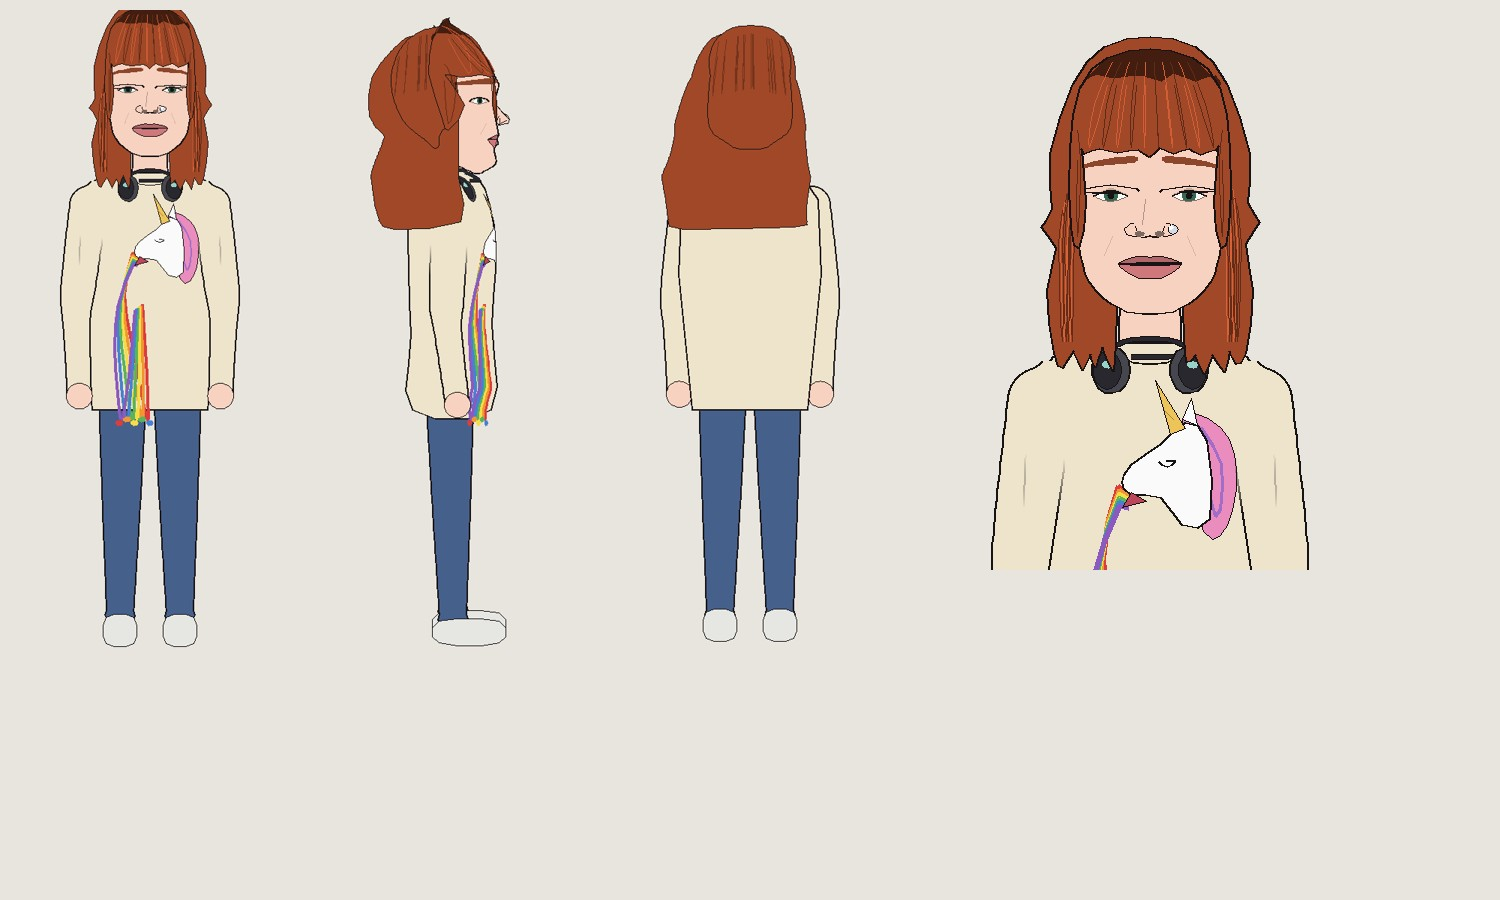
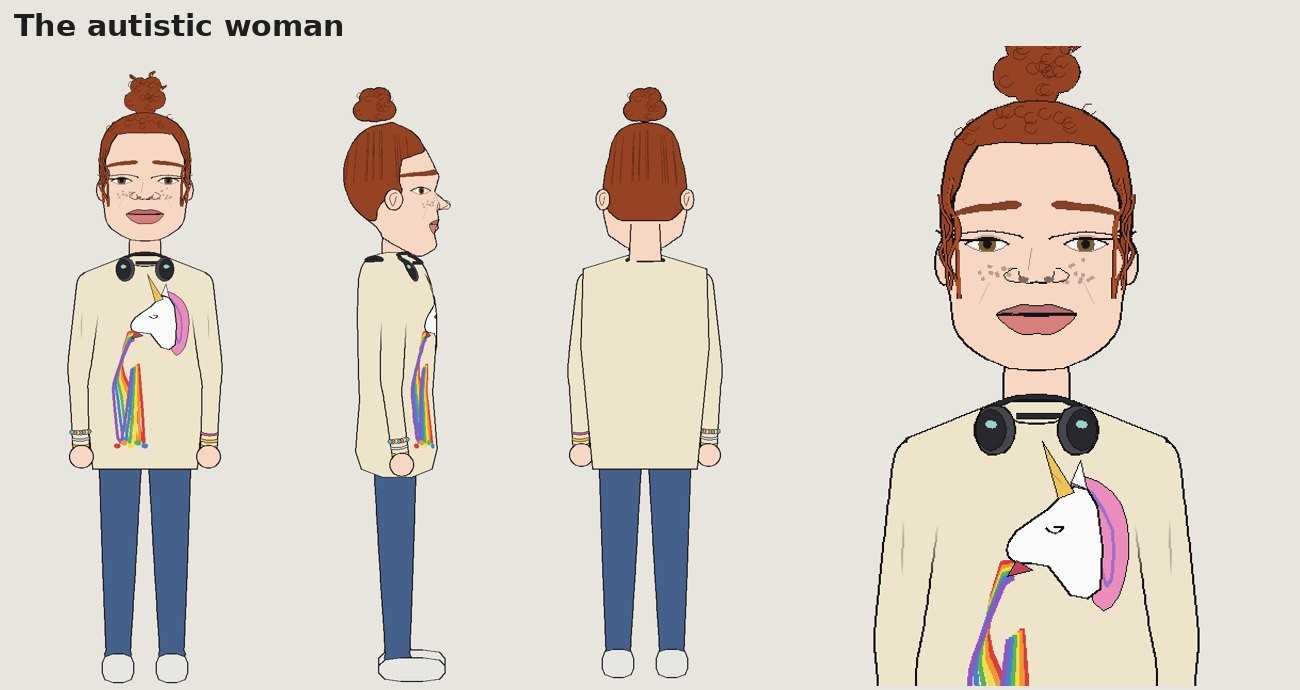
Grand Theft Autism chat 9: Sam's six cast notes and the likeness fixes, critique hunts 1 and 2, handover
Claude-Session: https://claude.ai/code/session_01J1JB7X4DqA8UyL6TXWdGbM

diff --git a/source/people_parts.py b/source/people_parts.py
@@ -520,7 +520,7 @@ def messy_front(p, f, L, fc, hc, hl):
         x, y = f(u, v)
         p.line(oval(x, y, 7, 6, 10, 0.3, math.pi * 1.6), dk(hc, 0.66), 1.3)
     for sgn in (-1, 1):                                       # ringlets at the temples: a wavy ribbon each side
-        for k, (x0, y0, ln) in enumerate(((e - 0.07, hl + 0.06, 0.62), (e - 0.015, 0.0, 0.5))):
+        for k, (x0, y0, ln) in enumerate(((e - 0.035, 0.0, 0.58), (e + 0.01, 0.08, 0.46))):
             pts = []                                          # hanging in front of the face's edge, to the cheek
             for i in range(11):
                 t = i / 10
@@ -880,7 +880,7 @@ def unicorn_torso(img, p, sp, t):
     white, horn = (250, 250, 250), (236, 196, 90)
     bands = [(220, 60, 60), (240, 150, 50), (244, 220, 70), (90, 180, 90), (70, 130, 210), (140, 90, 190)]
     # the rainbow and its splash stay on the jumper, above the hem (Sam, 20 Nov: "vomiting off the jumper itself")
-    bot = min(200, (sp.get('bottom', 470) - 150) / 1.7 - 18)
+    bot = min(200, (sp.get('bottom', 470) - 150) / 1.7 - 34)
     p = _Scaled(p, 1.7, 30, 150)
     for k, c in enumerate(bands):                         # the rainbow, from the mouth down and out to the left
         o = (k - 2.5) * 5.0
@@ -1000,6 +1000,8 @@ def vest_torso(img, p, sp, t):
         gold = (222, 180, 70)
         p.line(open_curve([(-24, -2), (-14, 26), (0, 38), (14, 26), (24, -2)], 3), gold, 1.8)
         p.poly(oval(0, 42, 3.6, 4.6, 8), gold, dk(gold, 0.6), 0.8)
+        for sgn in (-1, 1):                     # a soft line under the chest each side: reads as a woman at phone size
+            p.line(open_curve([(sgn * 58, 122), (sgn * 40, 148), (sgn * 14, 146)], 3), dk(col, 0.7), 1.8)   # (critique, chat 9)
 
 
 def _leonida(p, cx, cy):

diff --git a/source/views.py b/source/views.py
@@ -458,8 +458,8 @@ def sleeved_arm(p, j2, side, sp, shape=None):
         hand(p, j2, side, sp, shape)
 
 
-BANGLES = {'L': [((222, 180, 70), 0.9, 3.4), ((200, 202, 210), 0.84, 2.6), ('beads', 0.77, 0)],
-           'R': [((222, 180, 70), 0.92, 2.8), ((222, 180, 70), 0.86, 3.6), ((214, 110, 150), 0.79, 2.4)]}
+BANGLES = {'L': [((236, 186, 60), 0.92, 6.0), ((206, 210, 220), 0.83, 5.0), ('beads', 0.74, 0)],   # bold enough to
+           'R': [((236, 186, 60), 0.93, 5.0), ((236, 186, 60), 0.85, 6.0), ((228, 90, 150), 0.76, 4.6)]}   # read small
 
 
 def bangles(p, el, wr, w, side):
@@ -478,7 +478,7 @@ def bangles(p, el, wr, w, side):
                 o = (k - 3) / 3.0 * half * 0.92
                 bc = ((90, 190, 200), (250, 220, 120), (236, 120, 140))[k % 3]
                 p.poly(_ring(cx + nx * o + ux * 2 * (1 - (o / half) ** 2), cy + ny * o + uy * 2 * (1 - (o / half) ** 2),
-                             3.6), bc, INK, 1.0)
+                             5.2), bc, INK, 1.2)
             continue
         sag = half * 0.18                                     # the band curves round the wrist (seen a little above)
         top = [(cx + nx * half * (k / 6) + ux * sag * (1 - (k / 6) ** 2) - ux * th / 2,

diff --git a/notes/grand-theft-autism.md b/notes/grand-theft-autism.md
@@ -108,15 +108,25 @@
       judge." ("chips" = the two chase clips.) His Y/N on the rehearsals is withdrawn for now; no wait on the cast
       sheet; put the new Jason and Lucia in both rehearsals and send both clips again. Rule 8 holds after that.
 
-- [ ] Sam (20 Nov, characters chat, on the new cast): "Jason should have a very light fade of stubble." (was a full
+- [x] Sam (20 Nov, characters chat, on the new cast): "Jason should have a very light fade of stubble." (was a full
       boxed beard: a light stubble shadow instead.) "Eyebrows too high on all characters." (lower them on all three)
       "Also, Jason's eyebrows are too thick and a bit to dark." (thinner and lighter)
-- [ ] Sam: "The current design of autistic woman is too close to someone I know and I'd like to to approach her face and
+- [x] Sam: "The current design of autistic woman is too close to someone I know and I'd like to to approach her face and
       hair differently." (a new face and hair, not a tweak; keep his brief's auburn and her age; plan: curly auburn hair
       pulled up in a messy high bun with curls loose at the face, no fringe, a rounder face, freckles; shown to him
       beside the old one.) "Unicorn jumper is vomiting off the jumper itself." (the rainbow runs past the hem onto her
       jeans: keep it on the jumper.) "Add brackets and bangles to both arms, reduce sleeve size by 25%" (bracelets and
       bangles on both her wrists; her jumper sleeves 25% slimmer).
+      Done chat 9: Jason stubble 0.95 fade, brows 62 48 38 / 4.6 / 0.048, brow_high ---, buzz (hair: crop .. buzz);
+      Lucia brow_high -, 'loose' strands, fuller tail; her: new face (round, freckles, hazel, bigger eyes), messy curly
+      bun, no fringe, no nose stud (Lost line to Sam), bangles, arms 22.5, rainbow kept 34 units above the hem.
+      Critique r2: hunt 2 repeated hunt 1's list (rainbow, bangles, fringe already fixed: P13, P6 marked false).
+      Left, named: Jason's build reads slim to the helper (measured from the game's art last chat); rest faces read
+      neutral (the sheet's rest pose; acting is in the shots). The gate's status still reads "pass 2 open": `fixed`
+      answered "that was hunt 1" after r2-p2 was recorded (a tool fault to look at; named, not fixed).
+      No `page.py show`: no note touched a shot; all the work was the shared people kit (people*.py, views.py).
+      Handover check: the 28 NOT CARRIED lines were other chats' messages (the cross-session wrapper and the body
+      notes), all carried already in this checklist and Diagnosis.
 
 ## Diagnosis: the cast sheet's body faults (Sam, 20 Nov: "new and serious"; chat 4)
 Sam: the cast sheet "has broken many of our rules on body shape and proportions". Faults: sleeves as stuck-on flaps
@@ -217,23 +227,22 @@ a crash and a fireball. Past films came in above their estimates (Remakes, Bless
 - Rehearsal clips sent: 20 Nov, shot 2 swerve (stand-in street, 4.1 s, 1.0 MB); 20 Nov chat 6, shot 4 lean-out and crash
   (stand-in shop street, 6.2 s). Passers-by and the police drivers added as crowds (walker, cop) in the people file.
 
-## Where things stand (20 Nov, characters chat, Opus high)
-- Rules that bite next: 30 (none of these notes repeats an earlier one; check), 89 (the critique's two hunts on the
-  cast), 8 (nothing past the rehearsals until Sam answers on the two clips).
-- Done: Sam's new references and body notes in the brief; full-figure game art filed and measured (table above); the
-  body faults fixed in the kit (Diagnosis, Status); cast sheet redrawn beside Sam's pictures and the game's, sent.
-- Next: Opus medium, Sam's 6 notes on the cast (brief checklist, last two items): Jason a light stubble fade, thinner
-  lighter brows; brows lower on all three; her new face and hair; the rainbow kept on the jumper; bangles on both
-  wrists, sleeves 25% slimmer. Then the critique's two hunts (stage "cast"), fixed; likeness: Jason's hair a buzz,
-  Lucia's ponytail fuller with short loose strands. Then a Sonnet chat: the new cast into both rehearsals, both clips sent.
-- Needs Sam: nothing now; after the clips, his Y/N on both (rule 8).
-- Read: guides/job-packs.md, Notes round; this notes file's brief checklist (last items), Diagnosis, Body shapes measured.
+## Where things stand (20 Nov, chat 9, Opus medium)
+- Rules that bite next: 8 (nothing past the rehearsals until Sam answers on both clips), 30 (a repeated note: find
+  why the first fix failed), 85 (the cost watch: the film is at its budget; see the cost line).
+- Done: Sam's 6 cast notes (brief checklist, ticked); likeness (Jason's buzz, Lucia's fuller tail, loose strands);
+  critique hunts 1 and 2 on the cast, fixed or named; fixed cast sheet and her before/after sent.
+- Next: Sonnet, medium: put the new cast into both rehearsals (shot 2 swerve, shot 4 lean-out; source/gta_rehearse.py
+  draws its people from the people file, so a re-render picks them up; check first), send both clips. Do not touch
+  the opening (Sam's own chat).
+- Needs Sam: his Y/N on both clips (rule 8); whether losing her nose stud is fine.
+- Read: guides/job-packs.md, Checks and animatic (the clip part); this file's brief checklist (last items).
 - Open rule requests: none.
-- For Claude: body.FIGS/fig_half/front_outline(fig, arm_w); views._built_outline/_covered/_trainer, WrapPen.fig;
-  people_parts.VEST, vest_outline (dip: below the arm's fade); people.py 'build', 'arms N muscle', 'shorts', 'trainers';
-  her look: story/grand-theft-autism-people.txt '# her'; unicorn: people_parts.unicorn_torso (bot).
+- For Claude: people.py hair 'buzz'/'messy', 'bangles'; people_parts.buzz_front, messy_bun/messy_front, unicorn bot;
+  views.bangles (BANGLES); people_turned knot+hair_messy, pony fk; vest_torso tank chest line.
 
-Cost line (recorded every handover; shown to Sam only on a problem): film so far 14.66% of 15%; forecast 65.2% (2026-11-20)
 - Handover check answers (characters chat): no `page.py show` because no note touched a shot: the work was the shared
   kit's body parts and gta_cast's sheet layout (read whole). The freeze/* branches (halo-no-no, milburn,
   milburn+milburn-story, protest-tiers, blessed) are finished films' bookmarks (one-route-kit Change 1), not work to merge.
+
+Cost line (recorded every handover; shown to Sam only on a problem): film so far 15.88% of 15%; forecast 66.4% (2026-11-20)

diff --git a/notes/archive/grand-theft-autism-handovers.md b/notes/archive/grand-theft-autism-handovers.md
@@ -121,3 +121,20 @@ Cost line (recorded every handover; shown to Sam only on a problem): film so far
   at the moves stage); the four prepper lines are another film's, not this one's.
 
 Cost line (recorded every handover; shown to Sam only on a problem): film so far 9.59% of 15%; forecast 60.1% (2026-11-20)
+
+## Where things stand (20 Nov, characters chat, Opus high)
+- Rules that bite next: 30 (none of these notes repeats an earlier one; check), 89 (the critique's two hunts on the
+  cast), 8 (nothing past the rehearsals until Sam answers on the two clips).
+- Done: Sam's new references and body notes in the brief; full-figure game art filed and measured (table above); the
+  body faults fixed in the kit (Diagnosis, Status); cast sheet redrawn beside Sam's pictures and the game's, sent.
+- Next: Opus medium, Sam's 6 notes on the cast (brief checklist, last two items): Jason a light stubble fade, thinner
+  lighter brows; brows lower on all three; her new face and hair; the rainbow kept on the jumper; bangles on both
+  wrists, sleeves 25% slimmer. Then the critique's two hunts (stage "cast"), fixed; likeness: Jason's hair a buzz,
+  Lucia's ponytail fuller with short loose strands. Then a Sonnet chat: the new cast into both rehearsals, both clips sent.
+- Needs Sam: nothing now; after the clips, his Y/N on both (rule 8).
+- Read: guides/job-packs.md, Notes round; this notes file's brief checklist (last items), Diagnosis, Body shapes measured.
+- Open rule requests: none.
+- For Claude: body.FIGS/fig_half/front_outline(fig, arm_w); views._built_outline/_covered/_trainer, WrapPen.fig;
+  people_parts.VEST, vest_outline (dip: below the arm's fade); people.py 'build', 'arms N muscle', 'shorts', 'trainers';
+  her look: story/grand-theft-autism-people.txt '# her'; unicorn: people_parts.unicorn_torso (bot).
+

diff --git a/story/status.md b/story/status.md
@@ -1,5 +1,5 @@
 Job 1 (19 Nov, chat 2): front-on check on every film and the focus setting built and tested; sheet sent to Sam. Next: Sonnet chat 3 (turned seconds, route test, the goth sheet).
 Job 4 (20 Nov): Sam's three check changes built and tested (record always saves, notes tagged, replay table fixed); nothing next until the next film's pre-flight.
 Sam: strength of the look (stronger, or add a body cue); the 3/4 fix is a reserve job (his word starts it). Blessed WIP branch stays off the main line (named).
-Grand Theft Autism (20 Nov, characters chat): bodies rebuilt to Sam's new references (man and woman builds, vest and tank, shorts, trainers), sheet sent. Next: Opus medium, Sam's 6 cast notes, critique; then Sonnet, both rehearsal clips with the new cast.
+Grand Theft Autism (20 Nov, chat 9): Sam's 6 cast notes done (stubble, brows, buzz, her new face and bun, bangles, rainbow), checked twice, sheet sent. Next: Sonnet, the new cast into both rehearsal clips; then Sam's Y/N (rule 8).
 One route to the current kit (20 Nov, chat 5): shoulder chips fixed in the kit; today's kit draws Milburn as posted (shoulders only differ). Next: Grand Theft Autism's characters (Opus high); Change 2 part 2 after the film.
